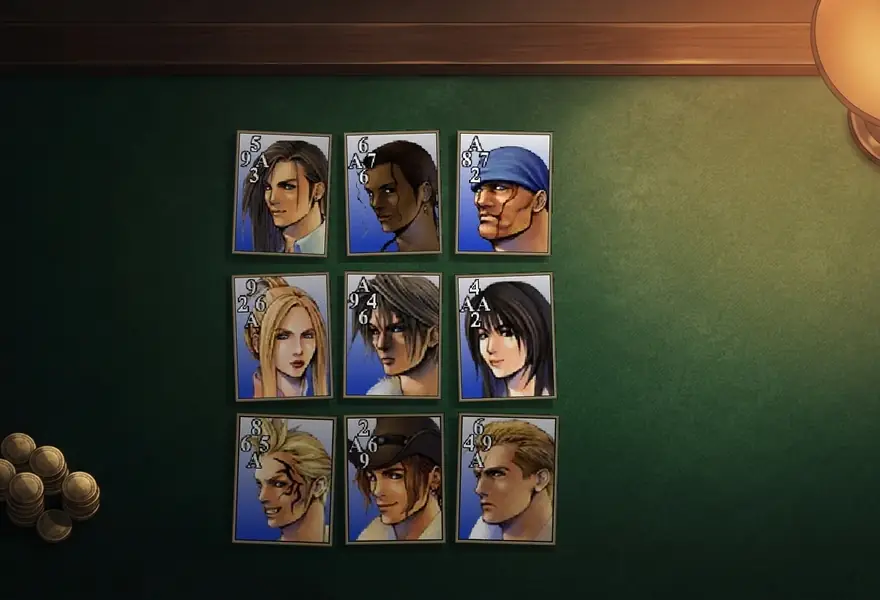
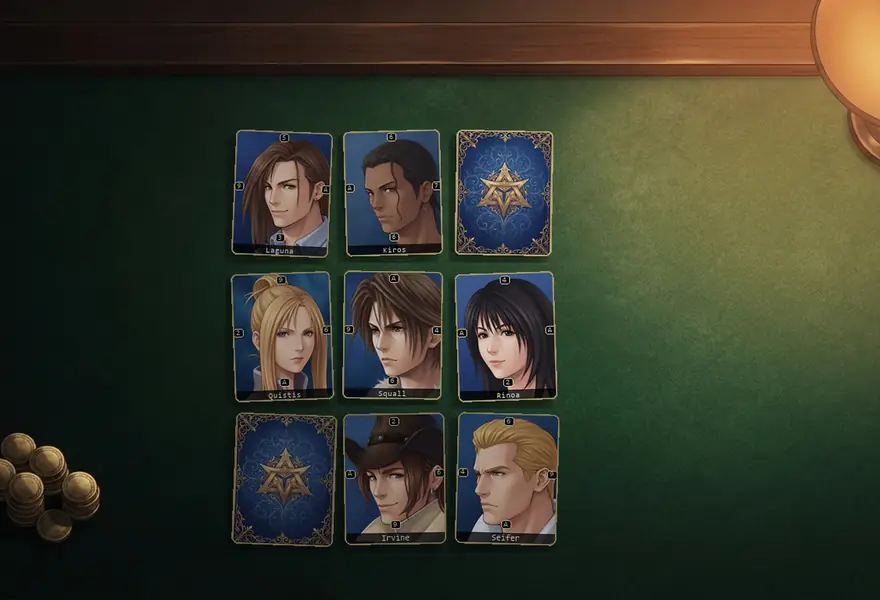
Feature set 157. (#72)
Modern Triple Triad cards, a real card back, and felt on the table.

All 110 card faces regenerated in the house style from the 1999 originals as
reference — same subject, same palette, modern painted rendering. Written to
gen/cards/{id}.webp with Cards.ImageUrl repointed; the originals stay at
cards/{id}.webp, so this is one UPDATE away from reverting. 110 of 110, no
failures, ~$4.

The faces are drawn WITHOUT their corner ranks, and that is the point. The game
already rendered its own numbers into the DOM and only hid them because the old
sprites have the values printed on. Now they show: crisp at any size, styleable,
correct by construction because they come from the row rather than from a
picture, and no diffusion model ever has to spell a digit — the failure that
killed the Roman numeral watermark. Each still sits on the edge it defends, on a
dark chip so it survives being over artwork rather than over a flat panel. The
has-art class that suppressed them is gone; nothing else used it.

They are also drawn without a card frame. The old art has a gold border printed
in, and .card draws its own border and radius — a printed frame inside a drawn
frame is a double edge.

- A real card back replaces the purple diagonal hatch: deep blue, gold filigree,
  a three-pointed emblem, which is the game's own name.
- The table is actual felt now — the same painted table the /games/ tile is
  cropped from, layered over the gradient that used to be the whole effect so a
[…]

Changed region(s): [[0.2455, 0.21, 0.6443, 0.93]]

diff --git a/src/MoogleAPI.Web/wwwroot/triple-triad/index.html b/src/MoogleAPI.Web/wwwroot/triple-triad/index.html
@@ -32,9 +32,13 @@
       --nav-bg:    rgba(11, 30, 52, 0.92);
       --radius:    6px;
 
-      /* Felt: a soft radial lift in the middle of the table, darker at the edges. */
+      /* Felt, and now actual felt: the painted table sits over the gradient that used to be the
+         whole effect, so a slow connection still gets a green table rather than a black page.
+         Same picture the /games/ tile is cropped from, and the lamp in its upper right is why the
+         gradient's highlight was moved off centre to meet it. */
       background:
-        radial-gradient(ellipse 90% 70% at 50% 32%, #1c4034 0%, #12271f 55%, #0c1a15 100%)
+        url('/assets/backgrounds/triple-triad-table.webp') center/cover no-repeat fixed,
+        radial-gradient(ellipse 90% 70% at 68% 22%, #1c4034 0%, #12271f 55%, #0c1a15 100%)
         fixed;
     }
 
@@ -118,26 +122,43 @@
     .card.owner-opponent { border-color: #d4808f; background-color: var(--opponent); }
     .card.selected { outline: 3px solid var(--gold); outline-offset: 1px; }
     .card.selectable { cursor: pointer; }
-    .card.facedown { background: repeating-linear-gradient(45deg, #3a2a4a, #3a2a4a 6px, #4a3560 6px, #4a3560 12px); }
+    /* A real back, not a hatch pattern. Every card in a deck shares one, and the three-pointed
+       emblem on it is the game's own name. */
+    .card.facedown {
+      background: #14294a url('/assets/card-back.webp') center/cover no-repeat;
+    }
 
     /* Light enough to read the art through; ownership is carried mainly by the border. */
     .card .tint { position: absolute; inset: 0; opacity: 0.33; }
     .card.owner-player   .tint { background: var(--player); }
     .card.owner-opponent .tint { background: var(--opponent); }
 
+    /* The ranks are drawn here, over the art, and always were — they used to be hidden the
+       moment the art loaded because the 1999 card faces have their numbers printed on. The
+       regenerated faces are drawn without them, which is the better arrangement in every
+       direction: the numbers come from the row rather than from a picture, so they are crisp at
+       any size, restyleable, correct by construction, and a diffusion model never has to spell.
+       Each still sits on the edge it defends.
+
+       The chip behind each digit is what makes them survive being over artwork instead of over a
+       flat panel — a text shadow alone disappeared into a light subject. */
     .card .vals {
       position: absolute; inset: 0 0 var(--name-h) 0;
       font-family: 'JetBrains Mono', monospace;
-      font-weight: 500; font-size: 0.78rem; color: #fff;
-      text-shadow: 0 0 3px #000, 0 0 3px #000;
+      font-weight: 600; font-size: 0.72rem; color: var(--gold);
     }
-    /* Art carries its own printed values — showing both reads as doubled digits. */
-    .card.has-art .vals { display: none; }
-    .card .vals span { position: absolute; line-height: 1; }
+    .card .vals span {
+      position: absolute; line-height: 1;
+      min-width: 15px; padding: 2px 1px;
+      text-align: center; border-radius: 4px;
+      background: rgba(6, 14, 26, 0.68);
+      box-shadow: inset 0 0 0 1px rgba(232, 217, 160, 0.34);
+      text-shadow: 0 1px 2px rgba(0, 0, 0, 0.8);
+    }
     .card .v-top    { top: 3px;  left: 50%; transform: translateX(-50%); }
     .card .v-bottom { bottom: 3px; left: 50%; transform: translateX(-50%); }
-    .card .v-left   { left: 4px;  top: 50%; transform: translateY(-50%); }
-    .card .v-right  { right: 4px; top: 50%; transform: translateY(-50%); }
+    .card .v-left   { left: 3px;  top: 50%; transform: translateY(-50%); }
+    .card .v-right  { right: 3px; top: 50%; transform: translateY(-50%); }
 
     .card .cname {
       position: absolute; bottom: 0; left: 0; right: 0;
@@ -222,6 +243,6 @@
   </main>
 
   <script src="/assets/stats.js?v=20260802b"></script>
-  <script src="/triple-triad/game.js?v=20260802b"></script>
+  <script src="/triple-triad/game.js?v=20260809"></script>
 </body>
 </html>

diff --git a/src/MoogleAPI.Web/wwwroot/triple-triad/game.js b/src/MoogleAPI.Web/wwwroot/triple-triad/game.js
@@ -153,11 +153,13 @@
       art.className = 'art';
       art.src = card.imageUrl;
       art.alt = '';
-      // The wiki CDN 404s any request carrying a Referer, so send none.
+      // The wiki CDN 404s any request carrying a Referer, so send none. Kept for the copied
+      // originals: the regenerated faces are served from our own bucket, which does not care.
       art.referrerPolicy = 'no-referrer';
-      // The authentic card face already has its values printed on it, so the overlay numbers
-      // below are suppressed once the art arrives and act as the fallback if it never does.
-      art.addEventListener('load', () => node.classList.add('has-art'));
+      // The rank numbers below used to be hidden the moment this loaded, because the 1999 card
+      // faces have their values printed on. The regenerated faces are drawn without them on
+      // purpose, so the overlay is the real thing now and the has-art class that suppressed it
+      // is gone — nothing else referenced it.
       art.addEventListener('error', () => art.remove());
       node.appendChild(art);
     }
